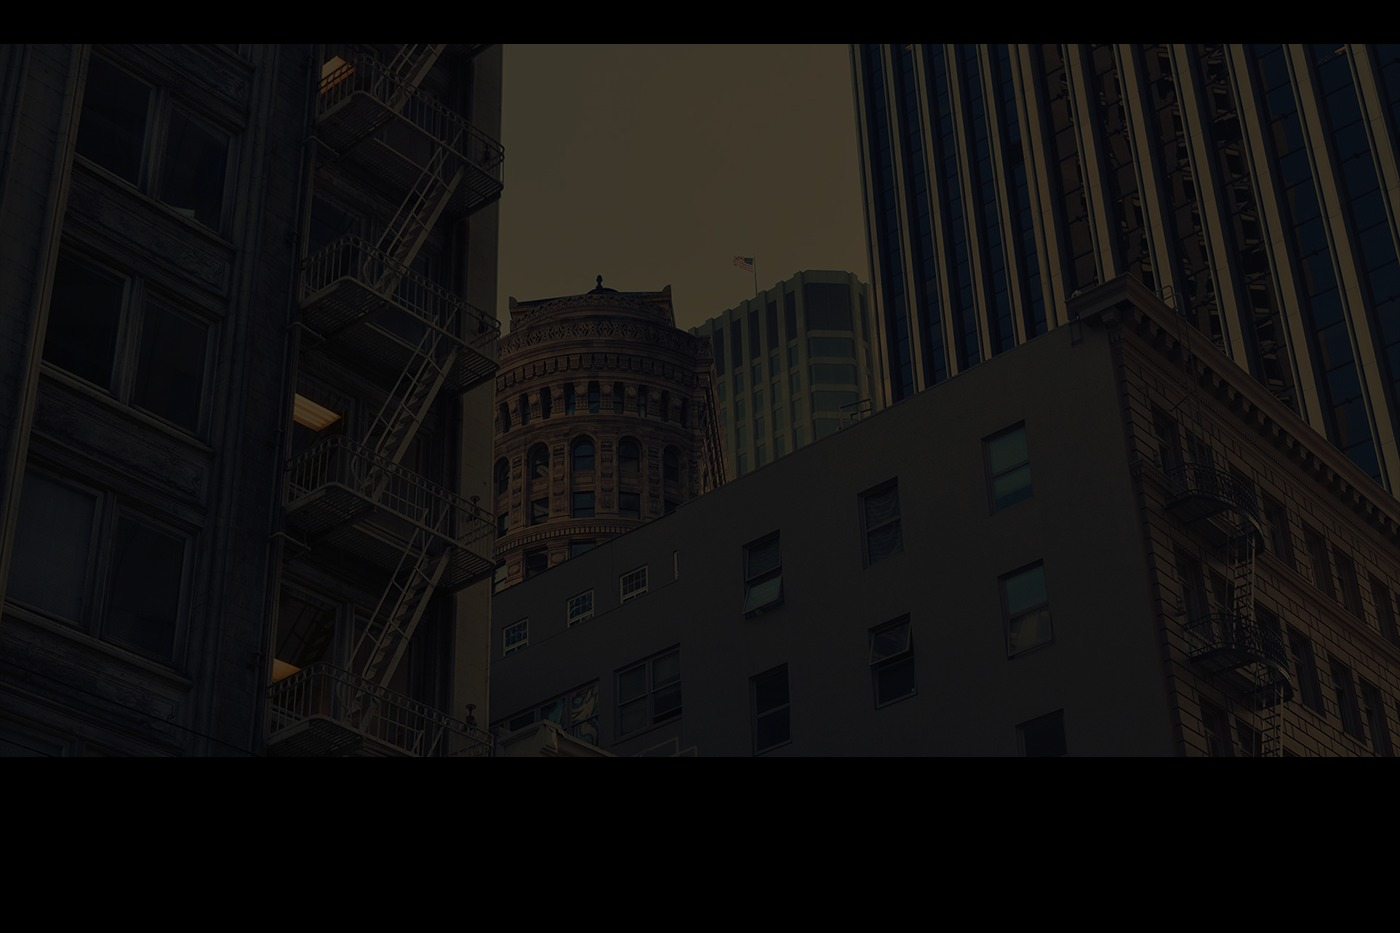
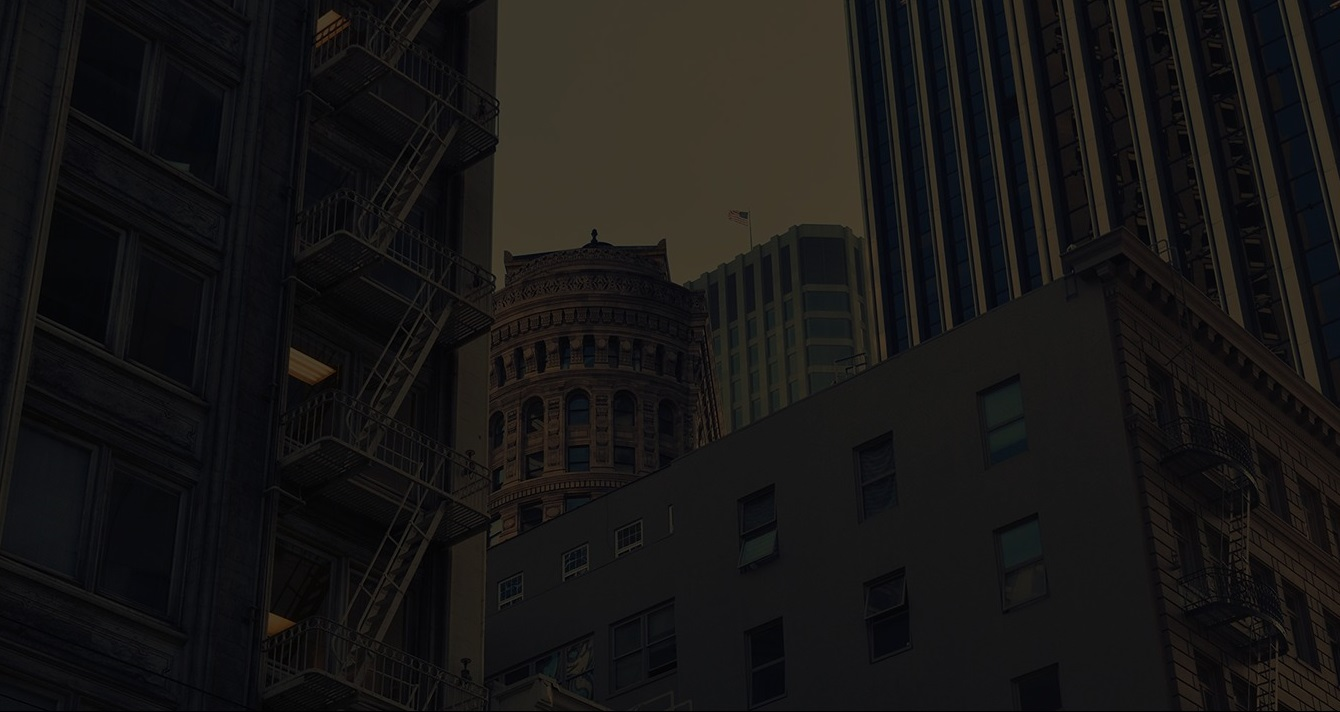
some fixed

diff --git a/styles/main.css b/styles/main.css
@@ -213,7 +213,7 @@
 }
 @media (min-width: 767px) {
   .head__button {
-    width: 135px;
+    width: 160px;
   }
 }
 .head__button:hover {
@@ -437,7 +437,7 @@
 }
 @media (min-width: 1199px) {
   #tab-11, #tab-22, #tab-33 {
-    left: 140px;
+    left: 200px;
     max-width: 450px;
   }
 }
@@ -481,26 +481,29 @@
   .collapse1 {
     position: absolute;
     top: 30px;
-    width: 80px;
-    height: 80px;
+    width: 110px;
+    height: 110px;
+    line-height: 110px;
   }
 }
 
 @media (min-width: 767px) {
   .collapse2 {
     position: absolute;
-    top: 111px;
-    width: 80px;
-    height: 80px;
+    top: 141px;
+    width: 110px;
+    height: 110px;
+    line-height: 110px;
   }
 }
 
 @media (min-width: 767px) {
   .collapse3 {
     position: absolute;
-    top: 192px;
-    width: 80px;
-    height: 80px;
+    top: 252px;
+    width: 110px;
+    height: 110px;
+    line-height: 110px;
   }
 }
 
@@ -539,7 +542,7 @@
 }
 @media (min-width: 767px) {
   .tabs__button {
-    width: 145px;
+    width: 160px;
   }
 }
 .tabs__button:hover {
@@ -920,6 +923,8 @@
   padding: 20px;
   background-image: url(../images/stylish_background.jpg);
   background-position: center;
+  background-repeat: no-repeat;
+  background-size: cover;
 }
 @media (min-width: 767px) {
   .stylish {
@@ -969,7 +974,7 @@
 }
 @media (min-width: 1199px) {
   .stylish__button {
-    width: 135px;
+    width: 160px;
   }
 }
 
@@ -1115,7 +1120,7 @@
 }
 @media (min-width: 1199px) {
   .contact_us__form-button {
-    width: 135px;
+    width: 160px;
   }
 }
 
@@ -1230,8 +1235,9 @@
   display: flex;
   flex-direction: column;
   justify-content: center;
+  position: relative;
   background-color: #000;
-  height: 120px;
+  height: 160px;
 }
 .footer__icons {
   display: flex;
@@ -1272,15 +1278,20 @@
 .footer__back-home {
   box-sizing: border-box;
   display: flex;
-  position: relative;
+  position: absolute;
   justify-items: flex-end;
   align-self: flex-end;
-  top: -120px;
+  top: -24px;
   margin-right: 20px;
   border-radius: 50%;
   width: 48px;
   height: 48px;
   background-color: #ff8b38;
+}
+@media (min-width: 1199px) {
+  .footer__back-home {
+    margin-right: 200px;
+  }
 }
 .footer__back-home-arrow {
   color: #fff;

diff --git a/index.html b/index.html
@@ -11,7 +11,6 @@
   <link rel="stylesheet" href="https://cdnjs.cloudflare.com/ajax/libs/font-awesome/4.7.0/css/font-awesome.min.css">
   <link rel="stylesheet" href="./styles/main.css">
   <script src="https://kit.fontawesome.com/dc9c7eef2f.js" crossorigin="anonymous"></script>
-  <script src="scripts/main.js" defer></script>
 </head>
 
 <body class="page__body">
@@ -19,13 +18,13 @@
     <a href="/" class="logo header__nav-logo">
       <img src="./images/Logo.png" alt="Axit logo">
     </a>
-    <div class="header__link">
+    <nav class="header__link">
       <a class="header__link-item" href="#features">Features</a>
       <a class="header__link-item" href="#about">About</a>
       <a class="header__link-item" href="#pricing">Pricing</a>
       <a class="header__link-item" href="#reviews">Reviews</a>
       <a class="header__link-item" href="#contacts">Contact</a>
-    </div>
+    </nav>
     <div class="header__menu">
       <input id="menu__toggle" type="checkbox" class="some"/>
       <label class="menu__btn" for="menu__toggle">

diff --git a/styles/blocks/section-tabs.scss b/styles/blocks/section-tabs.scss
@@ -46,7 +46,7 @@
   }
 
   @include onDesktop {
-    left: 140px;
+    left: 200px;
     max-width: 450px;
   }
 }
@@ -91,26 +91,29 @@
   @include onTablet {
     position: absolute;
     top: 30px;
-    width: 80px;
-    height: 80px;
+    width: 110px;
+    height: 110px;
+    line-height: 110px
   }
 }
 
 .collapse2 {
   @include onTablet {
     position: absolute;
-    top: 111px;
-    width: 80px;
-    height: 80px;
+    top: 141px;
+    width: 110px;
+    height: 110px;
+    line-height: 110px
   }
 }
 
 .collapse3 {
   @include onTablet {
     position: absolute;
-    top: 192px;
-    width: 80px;
-    height: 80px;
+    top: 252px;
+    width: 110px;
+    height: 110px;
+    line-height: 110px;
   }
 }
 
@@ -151,7 +154,7 @@
     border-color: $orangeColor;
 
     @include onTablet {
-      width: 145px;
+      width: 160px;
     }
 
     &:hover {

diff --git a/styles/blocks/footer.scss b/styles/blocks/footer.scss
@@ -2,8 +2,9 @@
   display: flex;
   flex-direction: column;
   justify-content: center;
+  position: relative;
   background-color: $blackColor;
-  height: 120px;
+  height: 160px;
 
   &__icons {
     display: flex;
@@ -48,21 +49,25 @@
   &__back-home {
     box-sizing: border-box;
     display: flex;
-    position: relative;
+    position: absolute;
     justify-items: flex-end;
     align-self: flex-end;
-    top: -120px;
+    top: -24px;
     margin-right: 20px;
     border-radius: 50%;
     width: 48px;
     height: 48px;
     background-color: $orangeColor;
+
+    @include onDesktop {
+      margin-right: 200px;
+    }
     
     &-arrow {
       color: $whiteColor;
       text-decoration: none;
       font-size: 28px;
-      padding: 4px 0 0 16px;
+      padding: 7px 0 0 16px;
     }
   }
 }

diff --git a/styles/blocks/stylish.scss b/styles/blocks/stylish.scss
@@ -5,6 +5,8 @@
   padding: 20px;
   background-image: url(../images/stylish_background.jpg);
   background-position: center;
+  background-repeat: no-repeat;
+  background-size: cover;
 
   @include onTablet {
     padding: 80px 60px;
@@ -56,7 +58,7 @@
     }
 
     @include onDesktop {
-      width: 135px;
+      width: 160px;
     }
   }
 }

diff --git a/styles/blocks/head.scss b/styles/blocks/head.scss
@@ -74,7 +74,7 @@
     border-color: $whiteColor;
 
     @include onTablet {
-      width: 135px;
+      width: 160px;
     }
 
     &:hover {

diff --git a/styles/blocks/contact_us.scss b/styles/blocks/contact_us.scss
@@ -133,7 +133,7 @@
       }
 
       @include onDesktop {
-        width: 135px;
+        width: 160px;
       }
     }
   }
